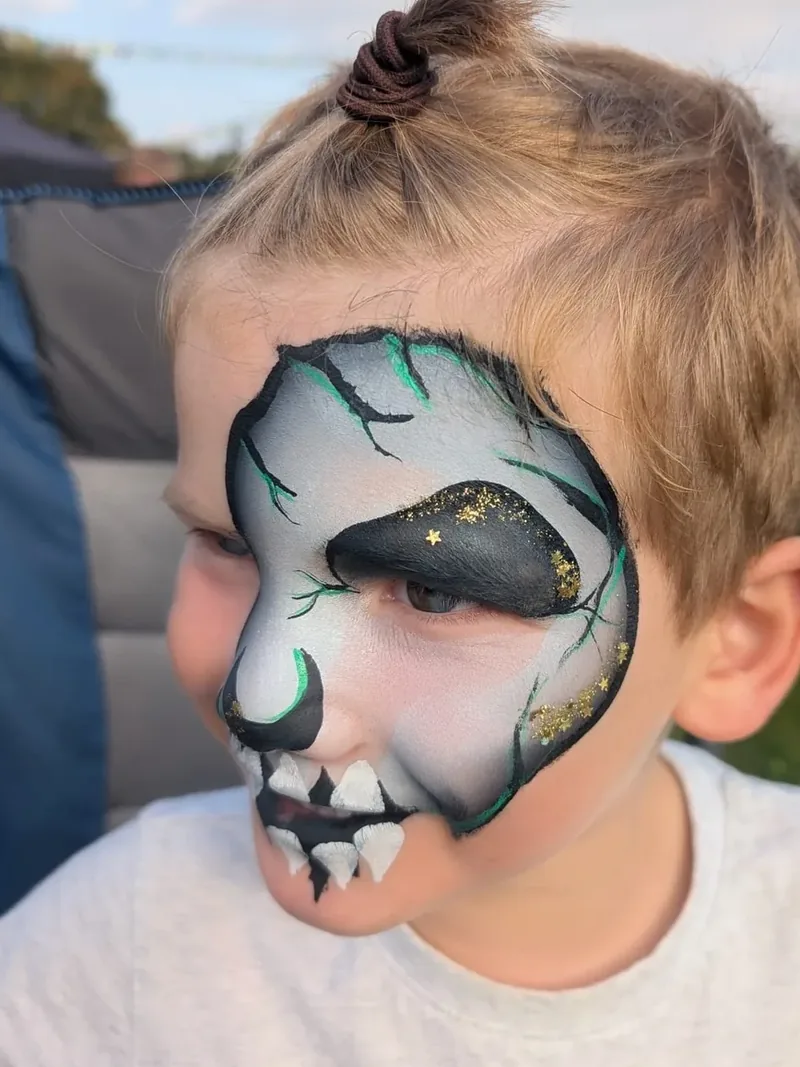
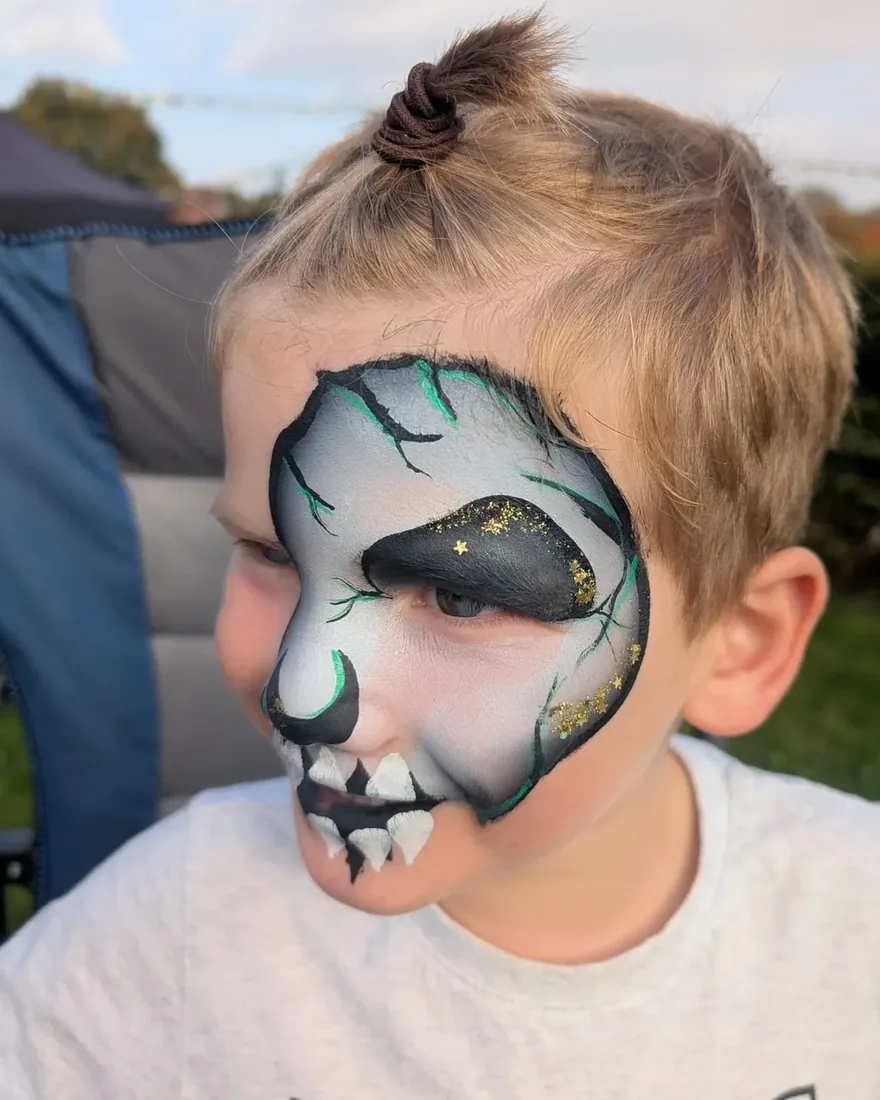
Halloween page: wider face crops (4:5)
Claude-Session: https://claude.ai/code/session_012bdPLZhqYkLUzfzYFPc2Bh

diff --git a/hw/halloween-face-painting.html b/hw/halloween-face-painting.html
@@ -190,10 +190,10 @@ h2{font-size:clamp(32px,4.4vw,52px)}
 .dates span.hot{background:var(--orange);color:#1A0B10;border-color:transparent}
 /* strip */
 .strip-wrap{padding:8px 0 4px;background:rgba(12,5,22,.55);backdrop-filter:none}
-.strip{display:grid;grid-auto-flow:column;grid-auto-columns:minmax(250px,1fr);gap:12px;overflow-x:auto;padding:16px 16px 10px;scroll-snap-type:x mandatory;scrollbar-width:none}
+.strip{display:grid;grid-auto-flow:column;grid-auto-columns:minmax(280px,1fr);gap:12px;overflow-x:auto;padding:16px 16px 10px;scroll-snap-type:x mandatory;scrollbar-width:none}
 .strip::-webkit-scrollbar{display:none}
 .strip a{position:relative;display:block;scroll-snap-align:start;border-radius:16px;overflow:hidden;text-decoration:none;color:#fff}
-.strip img{width:100%;aspect-ratio:3/4;object-fit:cover;transition:transform .4s}
+.strip img{width:100%;aspect-ratio:4/5;object-fit:cover;transition:transform .4s}
 .strip a:hover img{transform:scale(1.04)}
 .strip .cap{position:absolute;left:0;right:0;bottom:0;padding:40px 14px 12px;background:linear-gradient(180deg,transparent,rgba(12,5,22,.9));display:flex;justify-content:space-between;align-items:flex-end;gap:8px}
 .strip .cap b{font:400 21px/1.1 var(--disp)}
@@ -218,7 +218,7 @@ h2{font-size:clamp(32px,4.4vw,52px)}
 .levels{display:grid;grid-template-columns:repeat(3,1fr);gap:20px;margin-top:34px}
 .level{background:var(--panel);border:1px solid var(--line);border-top:4px solid var(--c);border-radius:18px;overflow:hidden;display:flex;flex-direction:column}
 .level .pics{display:grid;grid-template-columns:1fr 1fr;gap:3px}
-.level .pics img{aspect-ratio:3/4;object-fit:cover;width:100%}
+.level .pics img{aspect-ratio:4/5;object-fit:cover;width:100%}
 .level .txt{padding:20px 22px 24px}
 .level h3{font-size:30px}
 .level small{display:block;font:800 12px var(--body);letter-spacing:.12em;text-transform:uppercase;color:var(--c);margin:4px 0 10px}
@@ -280,7 +280,7 @@ footer .ate img{width:70px}
  .hero{min-height:auto;padding:110px 0 40px}
  .hero .lede{font-size:17px}
  .ctas .btn{flex:1 1 auto}
- .strip{grid-auto-columns:72%}
+ .strip{grid-auto-columns:80%}
  .band{padding:60px 0}
  .intro,.levels,.reviews,.gt{grid-template-columns:1fr}
  .intro{gap:26px}
@@ -302,7 +302,7 @@ footer .ate img{width:70px}
 <div class="dates"><b>Halloween is on a Saturday this year, and dates are already being booked:</b><span>Sat 24 Oct</span><span>Sun 25 Oct</span><span>Fri 30 Oct</span><span class="hot">Sat 31 Oct</span><span>Sun 1 Nov</span></div>
 </div></section>
 
-<section class="strip-wrap" aria-label="Halloween face painting by Kat"><div class="strip"><a href="https://wa.me/447852300125?text=Hi%20Kat!%20I%20love%20the%20Jack-o%27-lantern%20design.%20Are%20you%20free%20for%20a%20Halloween%20party?%20Date:%20Town:%20" target="_blank" rel="noopener" data-design="Jack-o’-lantern"><img src="halloween-pumpkin.webp" alt="Jack-o-lantern pumpkin face paint on a girl" width="800" height="1067" loading="eager"><span class="cap"><b>Jack-o’-lantern</b><i>Book this look</i></span></a><a href="https://wa.me/447852300125?text=Hi%20Kat!%20I%20love%20the%20Monster%20skull%20design.%20Are%20you%20free%20for%20a%20Halloween%20party?%20Date:%20Town:%20" target="_blank" rel="noopener" data-design="Monster skull"><img src="halloween-skull-boy.webp" alt="Monster skull face paint on a boy" width="800" height="1067" loading="eager"><span class="cap"><b>Monster skull</b><i>Book this look</i></span></a><a href="https://wa.me/447852300125?text=Hi%20Kat!%20I%20love%20the%20Red%20devil%20design.%20Are%20you%20free%20for%20a%20Halloween%20party?%20Date:%20Town:%20" target="_blank" rel="noopener" data-design="Red devil"><img src="halloween-devil-girl.webp" alt="Red devil face paint with horns on a girl" width="800" height="1067" loading="eager"><span class="cap"><b>Red devil</b><i>Book this look</i></span></a><a href="https://wa.me/447852300125?text=Hi%20Kat!%20I%20love%20the%20Werewolf%20design.%20Are%20you%20free%20for%20a%20Halloween%20party?%20Date:%20Town:%20" target="_blank" rel="noopener" data-design="Werewolf"><img src="halloween-werewolf.webp" alt="Werewolf face paint on a grown-up at a Halloween party" width="800" height="1067" loading="eager"><span class="cap"><b>Werewolf</b><i>Book this look</i></span></a><a href="https://wa.me/447852300125?text=Hi%20Kat!%20I%20love%20the%20Pink%20princess%20crown%20design.%20Are%20you%20free%20for%20a%20Halloween%20party?%20Date:%20Town:%20" target="_blank" rel="noopener" data-design="Pink princess crown"><img src="halloween-princess.webp" alt="Pink princess crown face paint with a skeleton costume" width="800" height="1067" loading="lazy"><span class="cap"><b>Pink princess crown</b><i>Book this look</i></span></a><a href="https://wa.me/447852300125?text=Hi%20Kat!%20I%20love%20the%20Grown-up%20skull%20design.%20Are%20you%20free%20for%20a%20Halloween%20party?%20Date:%20Town:%20" target="_blank" rel="noopener" data-design="Grown-up skull"><img src="halloween-adult-skull.webp" alt="Blue and white skull face paint on an adult" width="800" height="1067" loading="lazy"><span class="cap"><b>Grown-up skull</b><i>Book this look</i></span></a><a href="https://wa.me/447852300125?text=Hi%20Kat!%20I%20love%20the%20Half%20skull%20design.%20Are%20you%20free%20for%20a%20Halloween%20party?%20Date:%20Town:%20" target="_blank" rel="noopener" data-design="Half skull"><img src="halloween-half-skull.webp" alt="Half skull face paint on a boy" width="800" height="1067" loading="lazy"><span class="cap"><b>Half skull</b><i>Book this look</i></span></a><a href="https://wa.me/447852300125?text=Hi%20Kat!%20I%20love%20the%20Roaring%20monster%20design.%20Are%20you%20free%20for%20a%20Halloween%20party?%20Date:%20Town:%20" target="_blank" rel="noopener" data-design="Roaring monster"><img src="halloween-monster.webp" alt="Blue monster face paint on a roaring child" width="800" height="1067" loading="lazy"><span class="cap"><b>Roaring monster</b><i>Book this look</i></span></a><a href="https://wa.me/447852300125?text=Hi%20Kat!%20I%20love%20the%20Pumpkin%20sisters%20design.%20Are%20you%20free%20for%20a%20Halloween%20party?%20Date:%20Town:%20" target="_blank" rel="noopener" data-design="Pumpkin sisters"><img src="halloween-pumpkin-sisters.webp" alt="Two sisters with matching pumpkin face paint" width="800" height="1067" loading="lazy"><span class="cap"><b>Pumpkin sisters</b><i>Book this look</i></span></a></div>
+<section class="strip-wrap" aria-label="Halloween face painting by Kat"><div class="strip"><a href="https://wa.me/447852300125?text=Hi%20Kat!%20I%20love%20the%20Jack-o%27-lantern%20design.%20Are%20you%20free%20for%20a%20Halloween%20party?%20Date:%20Town:%20" target="_blank" rel="noopener" data-design="Jack-o’-lantern"><img src="halloween-pumpkin.webp" alt="Jack-o-lantern pumpkin face paint on a girl" width="880" height="1100" loading="eager"><span class="cap"><b>Jack-o’-lantern</b><i>Book this look</i></span></a><a href="https://wa.me/447852300125?text=Hi%20Kat!%20I%20love%20the%20Monster%20skull%20design.%20Are%20you%20free%20for%20a%20Halloween%20party?%20Date:%20Town:%20" target="_blank" rel="noopener" data-design="Monster skull"><img src="halloween-skull-boy.webp" alt="Monster skull face paint on a boy" width="880" height="1100" loading="eager"><span class="cap"><b>Monster skull</b><i>Book this look</i></span></a><a href="https://wa.me/447852300125?text=Hi%20Kat!%20I%20love%20the%20Red%20devil%20design.%20Are%20you%20free%20for%20a%20Halloween%20party?%20Date:%20Town:%20" target="_blank" rel="noopener" data-design="Red devil"><img src="halloween-devil-girl.webp" alt="Red devil face paint with horns on a girl" width="880" height="1100" loading="eager"><span class="cap"><b>Red devil</b><i>Book this look</i></span></a><a href="https://wa.me/447852300125?text=Hi%20Kat!%20I%20love%20the%20Werewolf%20design.%20Are%20you%20free%20for%20a%20Halloween%20party?%20Date:%20Town:%20" target="_blank" rel="noopener" data-design="Werewolf"><img src="halloween-werewolf.webp" alt="Werewolf face paint on a grown-up at a Halloween party" width="880" height="1100" loading="eager"><span class="cap"><b>Werewolf</b><i>Book this look</i></span></a><a href="https://wa.me/447852300125?text=Hi%20Kat!%20I%20love%20the%20Pink%20princess%20crown%20design.%20Are%20you%20free%20for%20a%20Halloween%20party?%20Date:%20Town:%20" target="_blank" rel="noopener" data-design="Pink princess crown"><img src="halloween-princess.webp" alt="Pink princess crown face paint with a skeleton costume" width="880" height="1100" loading="lazy"><span class="cap"><b>Pink princess crown</b><i>Book this look</i></span></a><a href="https://wa.me/447852300125?text=Hi%20Kat!%20I%20love%20the%20Grown-up%20skull%20design.%20Are%20you%20free%20for%20a%20Halloween%20party?%20Date:%20Town:%20" target="_blank" rel="noopener" data-design="Grown-up skull"><img src="halloween-adult-skull.webp" alt="Blue and white skull face paint on an adult" width="880" height="1100" loading="lazy"><span class="cap"><b>Grown-up skull</b><i>Book this look</i></span></a><a href="https://wa.me/447852300125?text=Hi%20Kat!%20I%20love%20the%20Half%20skull%20design.%20Are%20you%20free%20for%20a%20Halloween%20party?%20Date:%20Town:%20" target="_blank" rel="noopener" data-design="Half skull"><img src="halloween-half-skull.webp" alt="Half skull face paint on a boy" width="880" height="1100" loading="lazy"><span class="cap"><b>Half skull</b><i>Book this look</i></span></a><a href="https://wa.me/447852300125?text=Hi%20Kat!%20I%20love%20the%20Roaring%20monster%20design.%20Are%20you%20free%20for%20a%20Halloween%20party?%20Date:%20Town:%20" target="_blank" rel="noopener" data-design="Roaring monster"><img src="halloween-monster.webp" alt="Blue monster face paint on a roaring child" width="880" height="1100" loading="lazy"><span class="cap"><b>Roaring monster</b><i>Book this look</i></span></a><a href="https://wa.me/447852300125?text=Hi%20Kat!%20I%20love%20the%20Pumpkin%20sisters%20design.%20Are%20you%20free%20for%20a%20Halloween%20party?%20Date:%20Town:%20" target="_blank" rel="noopener" data-design="Pumpkin sisters"><img src="halloween-pumpkin-sisters.webp" alt="Two sisters with matching pumpkin face paint" width="880" height="1100" loading="lazy"><span class="cap"><b>Pumpkin sisters</b><i>Book this look</i></span></a></div>
 <p class="strip-note">Swipe for more, tap a look to book it, or <a href="https://paintingpixie.com/gallery.html">see the full gallery</a></p>
 <div class="wrap trust"><span><b>Calm and patient</b> with nervous little ones</span><span><b>★★★★★ 5.0</b> on Add to Event</span><span>Insured &amp; DBS checked</span><span>Professional skin-safe paints</span></div></section>
 

diff --git a/tools/build_halloween_page.py b/tools/build_halloween_page.py
@@ -117,10 +117,10 @@ h2{font-size:clamp(32px,4.4vw,52px)}
 .dates span.hot{background:var(--orange);color:#1A0B10;border-color:transparent}
 /* strip */
 .strip-wrap{padding:8px 0 4px;background:rgba(12,5,22,.55);backdrop-filter:none}
-.strip{display:grid;grid-auto-flow:column;grid-auto-columns:minmax(250px,1fr);gap:12px;overflow-x:auto;padding:16px 16px 10px;scroll-snap-type:x mandatory;scrollbar-width:none}
+.strip{display:grid;grid-auto-flow:column;grid-auto-columns:minmax(280px,1fr);gap:12px;overflow-x:auto;padding:16px 16px 10px;scroll-snap-type:x mandatory;scrollbar-width:none}
 .strip::-webkit-scrollbar{display:none}
 .strip a{position:relative;display:block;scroll-snap-align:start;border-radius:16px;overflow:hidden;text-decoration:none;color:#fff}
-.strip img{width:100%;aspect-ratio:3/4;object-fit:cover;transition:transform .4s}
+.strip img{width:100%;aspect-ratio:4/5;object-fit:cover;transition:transform .4s}
 .strip a:hover img{transform:scale(1.04)}
 .strip .cap{position:absolute;left:0;right:0;bottom:0;padding:40px 14px 12px;background:linear-gradient(180deg,transparent,rgba(12,5,22,.9));display:flex;justify-content:space-between;align-items:flex-end;gap:8px}
 .strip .cap b{font:400 21px/1.1 var(--disp)}
@@ -145,7 +145,7 @@ h2{font-size:clamp(32px,4.4vw,52px)}
 .levels{display:grid;grid-template-columns:repeat(3,1fr);gap:20px;margin-top:34px}
 .level{background:var(--panel);border:1px solid var(--line);border-top:4px solid var(--c);border-radius:18px;overflow:hidden;display:flex;flex-direction:column}
 .level .pics{display:grid;grid-template-columns:1fr 1fr;gap:3px}
-.level .pics img{aspect-ratio:3/4;object-fit:cover;width:100%}
+.level .pics img{aspect-ratio:4/5;object-fit:cover;width:100%}
 .level .txt{padding:20px 22px 24px}
 .level h3{font-size:30px}
 .level small{display:block;font:800 12px var(--body);letter-spacing:.12em;text-transform:uppercase;color:var(--c);margin:4px 0 10px}
@@ -207,7 +207,7 @@ footer .ate img{width:70px}
  .hero{min-height:auto;padding:110px 0 40px}
  .hero .lede{font-size:17px}
  .ctas .btn{flex:1 1 auto}
- .strip{grid-auto-columns:72%}
+ .strip{grid-auto-columns:80%}
  .band{padding:60px 0}
  .intro,.levels,.reviews,.gt{grid-template-columns:1fr}
  .intro{gap:26px}
@@ -222,7 +222,7 @@ WA_SVG = '<svg viewBox="0 0 32 32" aria-hidden="true"><path d="M16 3C9 3 3.3 8.6
 def body():
     strip = ''.join(
         f'<a href="{wa("Hi Kat! I love the " + c + " design. Are you free for a Halloween party? Date: Town: ")}" target="_blank" rel="noopener" data-design="{esc(c)}">'
-        f'<img src="halloween-{f}.webp" alt="{esc(a)}" width="800" height="1067" loading="{"eager" if i < 4 else "lazy"}">'
+        f'<img src="halloween-{f}.webp" alt="{esc(a)}" width="880" height="1100" loading="{"eager" if i < 4 else "lazy"}">'
         f'<span class="cap"><b>{esc(c)}</b><i>Book this look</i></span></a>' for i, (f, c, a) in enumerate(STRIP))
     levels = ''.join(
         f'<article class="level" style="--c:{col}"><div class="pics"><img src="halloween-{a}.webp" alt="" loading="lazy"><img src="halloween-{b}.webp" alt="" loading="lazy"></div>'

diff --git a/tools/build_halloween_crops.py b/tools/build_halloween_crops.py
@@ -1,0 +1,22 @@
+# -*- coding: utf-8 -*-
+"""Face-centred crops of the Halloween photos for the new Halloween page (hw/). 4:5 frames."""
+from PIL import Image, ImageOps
+UP = '/mnt/user-data/uploads/Painting Pixie Photos/Recommended for website/4 Halloween/'
+C = [  # name, source, face centre x, y (fractions), crop width as fraction of photo width
+ ('pumpkin', 'img/g/pumpkin-face-1600.webp', .42, .47, .86),
+ ('skull-boy', 'img/g/skull-boy-1600.webp', .42, .47, .86),
+ ('werewolf', 'img/g/werewolf-1600.webp', .48, .41, .52),
+ ('princess', 'img/g/skeleton-crown-1600.webp', .47, .40, .68),
+ ('devil-girl', 'img/g/red-devil-1600.webp', .50, .38, .72),
+ ('half-skull', UP + 'C127-half-skull-boy.jpeg', .55, .48, .44),
+ ('pumpkin-sisters', 'img/g/pumpkin-sisters-1600.webp', .50, .45, 1.0),
+ ('adult-skull', 'img/g/adult-skull-1600.webp', .50, .50, .95),
+ ('monster', 'img/g/blue-monster-roar-1600.webp', .50, .42, .86),
+]
+for k, p, cx, cy, f in C:
+    im = ImageOps.exif_transpose(Image.open(p)).convert('RGB'); W, H = im.size
+    cw = f * W; ch = cw * 5 / 4
+    if ch > H: ch = H; cw = ch * 4 / 5
+    x0 = min(max(cx * W - cw / 2, 0), W - cw); y0 = min(max(cy * H - ch * .45, 0), H - ch)
+    im.crop((round(x0), round(y0), round(x0 + cw), round(y0 + ch))).resize((880, 1100), Image.LANCZOS).save(f'hw/halloween-{k}.webp', 'WEBP', quality=82, method=6)
+print('crops done')
